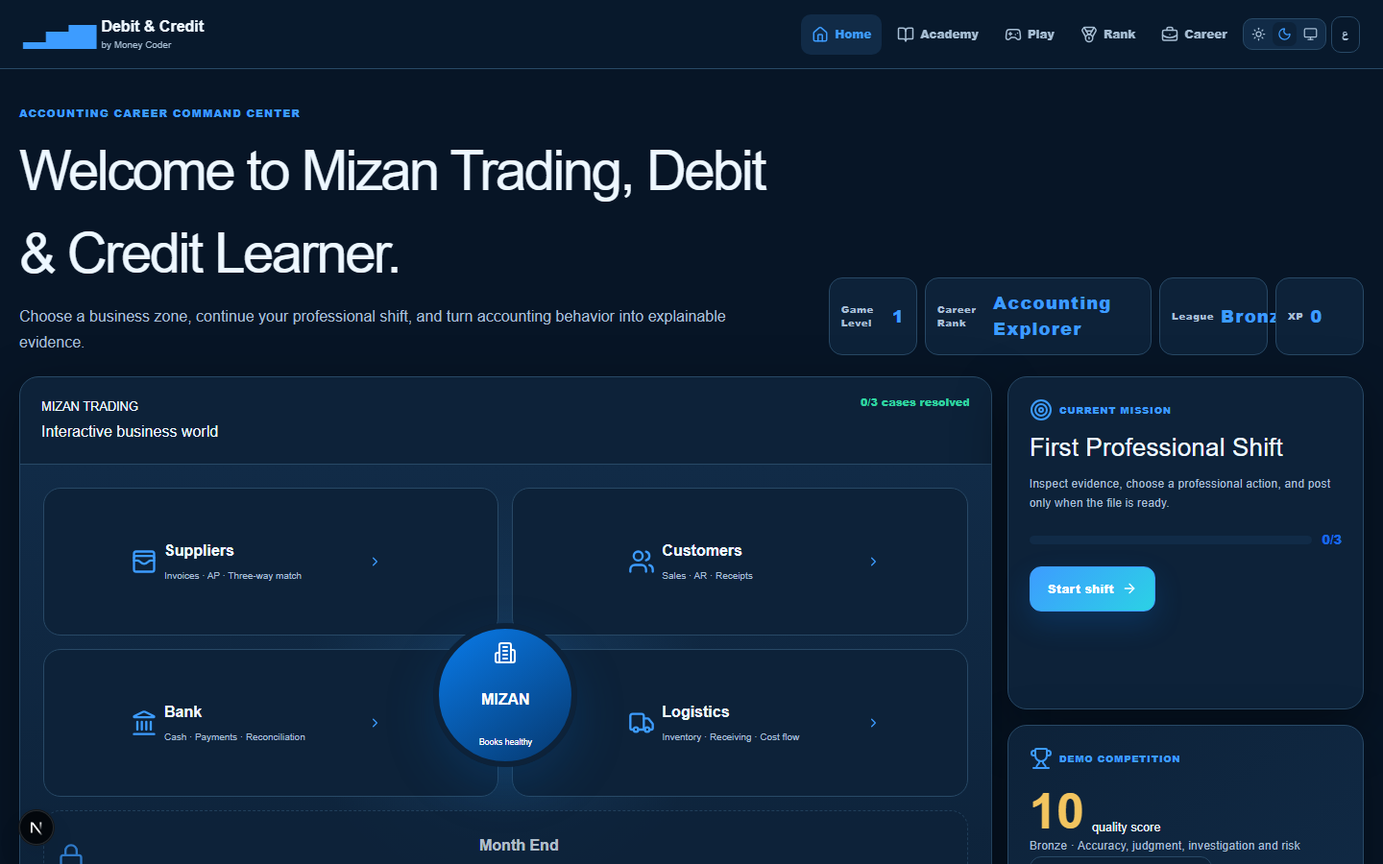
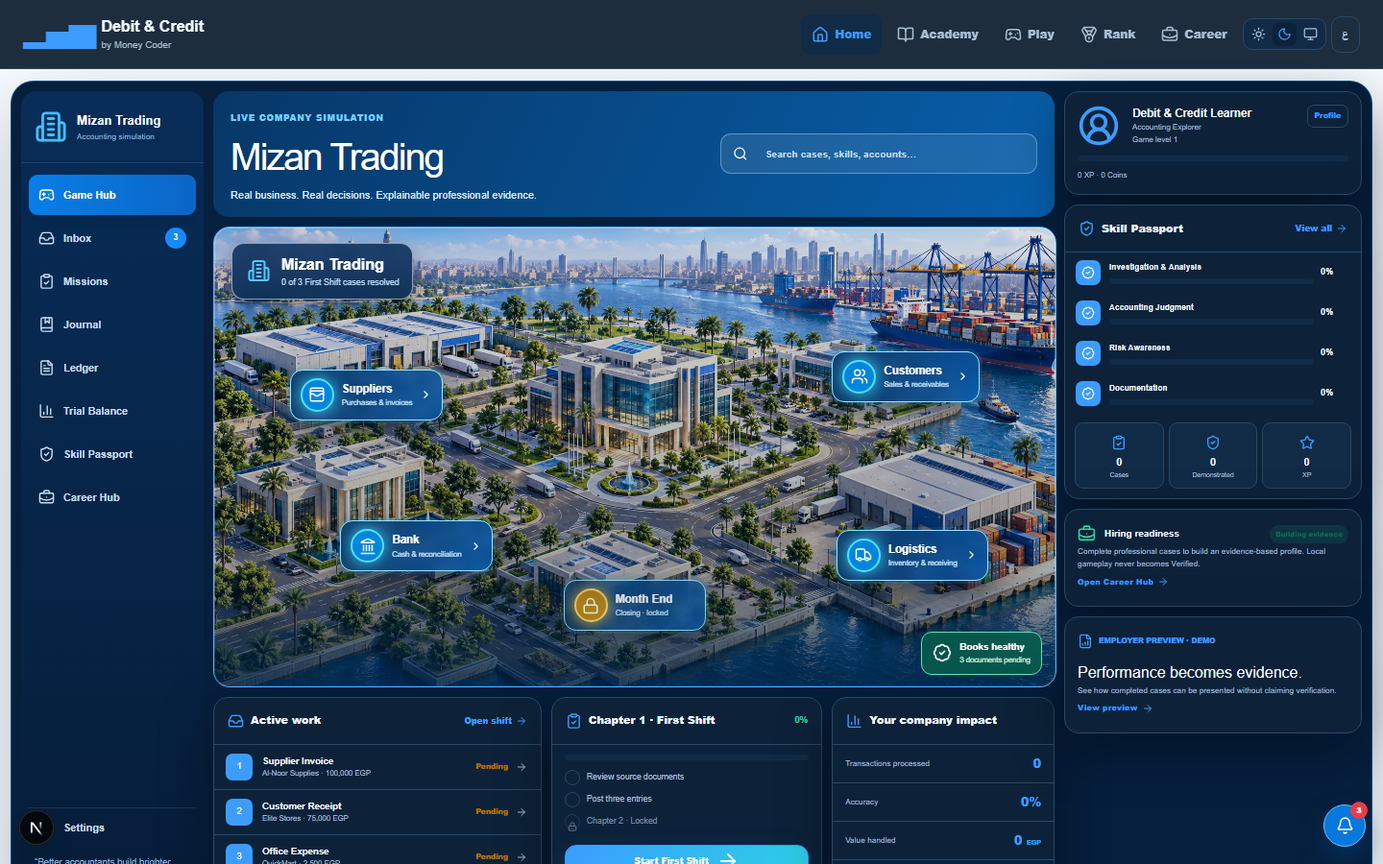
feat: rebuild game hub as company world

diff --git a/app/platform.css b/app/platform.css
@@ -9,6 +9,28 @@
 @media(max-width:980px){.platform-nav nav{display:none;position:absolute;top:66px;inset-inline:12px;grid-template-columns:1fr 1fr;padding:10px;border:1px solid var(--border);border-radius:15px;background:var(--surface);box-shadow:var(--shadow)}.platform-nav nav.open{display:grid}.platform-menu{display:block}.marketing-hero,.world-showcase,.hub-layout,.career-hub-grid{grid-template-columns:1fr}.journey>div{grid-template-columns:repeat(3,1fr)}.hub-bottom{grid-template-columns:1fr 1fr}.hub-bottom article:first-child{grid-column:1/-1}.academy-loop{grid-template-columns:1fr 1fr}.academy-loop>svg{display:none}.leaderboard-table{overflow-x:auto}.leaderboard-table>header,.leaderboard-table>article{min-width:760px}.career-hub-hero,.academy-platform-hero{align-items:flex-start;flex-direction:column}}
 @media(max-width:600px){.platform-nav{min-height:62px;padding:8px 14px}.platform-brand b{font-size:.85rem}.marketing-hero,.platform-section,.platform-split,.employer-strip,.hub-welcome,.hub-layout,.hub-bottom,.academy-platform-hero,.academy-loop,.phase-roadmap,.academy-foundation,.leaderboard-hero,.score-formula,.leaderboard-tabs,.leaderboard-table,.season-card,.career-hub-hero,.career-hub-grid,.career-pipeline{width:min(100% - 22px,1440px)}.marketing-hero{grid-template-columns:1fr;min-height:auto;padding:52px 0}.marketing-hero h1{font-size:3.2rem}.mizan-preview{transform:none}.platform-section{padding:55px 0}.difference>div,.platform-split,.academy-foundation{grid-template-columns:1fr}.journey>div{grid-template-columns:1fr 1fr}.world-showcase{padding:28px 20px}.world-orbit{min-height:280px}.employer-strip{grid-template-columns:auto 1fr}.employer-strip>a{grid-column:1/-1}.hub-welcome{align-items:flex-start;flex-direction:column;padding-top:25px}.hub-player{width:100%;overflow-x:auto}.hub-player span{min-width:105px}.zone-map{display:flex;overflow-x:auto;min-height:330px;padding-top:175px}.mizan-tower{top:90px}.business-zone{flex:0 0 235px;min-height:130px;padding:14px!important}.business-zone.month-end{flex-basis:210px}.hub-bottom{grid-template-columns:1fr}.hub-bottom article:first-child{grid-column:auto}.academy-loop{grid-template-columns:1fr}.academy-platform-hero{padding-top:35px}.academy-platform-hero h1,.leaderboard-hero h1,.career-hub-hero h1{font-size:2.6rem}.phase-roadmap article{grid-template-columns:auto 1fr}.phase-roadmap article>a,.phase-roadmap article>svg:last-child{grid-column:2}.leaderboard-hero{align-items:flex-start;flex-direction:column;padding-top:35px}.leaderboard-hero>aside{width:100%}.score-formula{align-items:flex-start}.score-formula p{overflow-wrap:anywhere}.season-card{grid-template-columns:auto 1fr}.season-card>a{grid-column:1/-1}.career-hub-hero>aside{width:100%;min-width:0}.skill-groups{grid-template-columns:1fr}.career-pipeline{align-items:flex-start;flex-wrap:wrap}.career-pipeline>a{width:100%}}
 @media(prefers-reduced-motion:reduce){.platform-page *{scroll-behavior:auto!important;animation:none!important;transition:none!important}}
+
+/* Mizan Trading command game */
+.command-game{min-height:100vh;overflow-x:hidden;background:radial-gradient(circle at 48% 8%,#1689ff18,transparent 36%),var(--page-bg)}
+.command-shell{display:grid;grid-template-columns:190px minmax(620px,1fr) 310px;gap:10px;width:min(1600px,calc(100% - 22px));margin:12px auto 55px;padding:10px;border:1px solid #2188e866;border-radius:24px;background:#061f3d;box-shadow:0 30px 80px #00162c42}
+.command-rail,.command-dossier,.command-main{min-width:0}.command-rail{display:flex;flex-direction:column;overflow:hidden;border-radius:16px;color:#d9edff;background:linear-gradient(180deg,#082d58,#061d39)}
+.command-rail-company{display:flex;align-items:center;gap:10px;padding:20px 14px;border-bottom:1px solid #ffffff1c}.command-rail-company>svg{width:34px;height:34px;color:#42bfff}.command-rail-company span{display:grid}.command-rail-company b{color:#fff;font-size:.82rem}.command-rail-company small{color:#94b9dc;font-size:.52rem}
+.command-rail nav{display:grid;gap:3px;padding:12px 8px}.command-rail nav a,.command-rail-settings{display:flex;align-items:center;gap:9px;min-height:42px;padding:0 10px;border-radius:9px;color:#c7ddf2;font-size:.68rem;font-weight:750;text-decoration:none;transition:.18s ease}.command-rail nav a:hover,.command-rail nav a.active{color:#fff;background:linear-gradient(90deg,#087ee8,#0b66c5);box-shadow:0 7px 18px #001b3766}.command-rail nav svg,.command-rail-settings svg{width:17px}.command-rail nav span{flex:1}.command-rail nav em{display:grid;place-items:center;width:22px;height:22px;border-radius:50%;color:#fff;background:#168aff;font-style:normal;font-size:.58rem}.command-rail-settings{margin:auto 8px 0;border-top:1px solid #ffffff18;border-radius:0}.command-rail blockquote{margin:8px 14px 18px;color:#8fb4d7;font-size:.6rem;line-height:1.5}
+.command-main{display:grid;align-content:start;gap:10px}.command-heading{display:flex;align-items:center;justify-content:space-between;gap:20px;min-height:91px;padding:14px 18px;border-radius:16px;color:#fff;background:linear-gradient(115deg,#073767,#075fab)}.command-heading span{color:#79cdff;font-size:.55rem;font-weight:900;letter-spacing:.1em}.command-heading h1{margin:2px 0;font-size:clamp(1.75rem,2.7vw,3rem);letter-spacing:-.045em}.command-heading p{margin:0;color:#d3e8fb;font-size:.68rem}.command-heading label{display:flex;align-items:center;gap:7px;width:min(330px,40%);height:42px;padding:0 12px;border:1px solid #b5dbff6b;border-radius:11px;background:#ffffff18}.command-heading label svg{width:17px}.command-heading input{width:100%;border:0;outline:0;color:#fff;background:transparent;font:inherit;font-size:.64rem}.command-heading input::placeholder{color:#c6ddf1}
+.company-world{position:relative;overflow:hidden;aspect-ratio:16/8.75;min-height:480px;border:1px solid #4db3ff;border-radius:17px;background-image:linear-gradient(180deg,#03294b24,#021b3373),url('/platform/mizan-trading-world.png');background-position:center;background-size:cover;box-shadow:inset 0 0 0 1px #ffffff4d}.company-world:after{position:absolute;inset:auto 0 0;height:25%;content:'';pointer-events:none;background:linear-gradient(transparent,#022446b8)}
+.company-world-title{position:absolute;z-index:2;top:16px;inset-inline-start:18px;display:flex;align-items:center;gap:9px;padding:10px 13px;border:1px solid #ffffff85;border-radius:13px;color:#fff;background:#062c58d9;box-shadow:0 8px 20px #001b375c;backdrop-filter:blur(9px)}.company-world-title>svg{width:29px;color:#52caff}.company-world-title span{display:grid}.company-world-title b{font-size:1rem}.company-world-title small{color:#b9daf6;font-size:.55rem}
+.world-zone{position:absolute;z-index:3;display:flex;align-items:center;gap:8px;min-width:148px;padding:8px 10px;border:1px solid #95e7ff;border-radius:13px;color:#fff;background:linear-gradient(110deg,#073364e8,#0759a9de);box-shadow:0 0 0 3px #12b9ff22,0 9px 24px #00162c9c;text-align:start;text-decoration:none;backdrop-filter:blur(5px);transition:.18s ease}.world-zone:not(:disabled):hover{transform:translateY(-3px) scale(1.03);background:linear-gradient(110deg,#086bccf2,#079bd4ec)}.world-zone>i{display:grid;place-items:center;width:35px;height:35px;border:2px solid #4be1ff;border-radius:50%;background:#0286db;box-shadow:0 0 17px #39d8ff}.world-zone>i svg{width:18px}.world-zone>span{display:grid;flex:1}.world-zone b{font-size:.72rem}.world-zone small{color:#c7e8ff;font-size:.48rem}.world-zone>svg{width:13px}.world-zone-suppliers{top:31%;left:9%}.world-zone-customers{top:27%;right:9%}.world-zone-bank{bottom:25%;left:15%}.world-zone-logistics{right:8%;bottom:23%}.world-zone-month-end{left:50%;bottom:12%;transform:translateX(-50%);opacity:.85}.world-zone-month-end:disabled{cursor:not-allowed}.world-zone-month-end>i{border-color:#ffd577;background:#bd870d;box-shadow:0 0 17px #ffc743}.world-health{position:absolute;z-index:3;inset-inline-end:14px;bottom:12px;display:flex;align-items:center;gap:8px;padding:8px 11px;border:1px solid #65e1b1;border-radius:11px;color:#fff;background:#075d4bdc;backdrop-filter:blur(6px)}.world-health>svg{width:20px}.world-health span{display:grid}.world-health b{font-size:.62rem}.world-health small{color:#c4f7df;font-size:.48rem}
+.operations-deck{display:grid;grid-template-columns:1.15fr .95fr .78fr;gap:10px}.operations-deck>article,.command-dossier>section{overflow:hidden;border:1px solid var(--border);border-radius:15px;background:var(--surface);box-shadow:var(--shadow)}.operations-deck article>header,.passport-panel>header{display:flex;align-items:center;justify-content:space-between;gap:8px;padding:12px 14px;border-bottom:1px solid var(--border)}.operations-deck header span,.passport-panel header span{display:flex;align-items:center;gap:7px;font-size:.7rem;font-weight:900}.operations-deck header svg,.passport-panel header svg{width:17px;color:var(--brand-primary)}.operations-deck header a,.passport-panel header a{display:flex;align-items:center;gap:4px;color:var(--brand-primary);font-size:.55rem;font-weight:800;text-decoration:none}.operations-deck header a svg,.passport-panel header a svg{width:12px}
+.case-line{display:grid;grid-template-columns:30px minmax(0,1fr) auto 14px;align-items:center;gap:8px;padding:9px 12px;border-bottom:1px solid var(--border);color:var(--text-primary);text-decoration:none}.case-line>i{display:grid;place-items:center;width:28px;height:28px;border-radius:7px;color:#fff;background:var(--brand-primary);font-style:normal;font-size:.6rem}.case-line.complete>i{background:var(--success)}.case-line>i svg{width:15px}.case-line>span{display:grid;min-width:0}.case-line b{overflow:hidden;font-size:.6rem;text-overflow:ellipsis;white-space:nowrap}.case-line small{overflow:hidden;color:var(--text-secondary);font-size:.49rem;text-overflow:ellipsis;white-space:nowrap}.case-line em{color:#b17700;font-size:.48rem;font-style:normal;font-weight:800}.case-line.complete em{color:var(--success)}.case-line>svg{width:12px;color:var(--text-secondary)}
+.chapter-progress{padding-bottom:11px}.chapter-progress>header b{color:var(--success);font-size:.6rem}.chapter-meter{overflow:hidden;height:6px;margin:10px 13px;border-radius:5px;background:var(--surface-muted)}.chapter-meter i{display:block;height:100%;background:linear-gradient(90deg,var(--brand-primary),var(--success))}.chapter-progress ul{display:grid;gap:7px;margin:10px 13px;padding:0;list-style:none}.chapter-progress li{display:flex;align-items:center;gap:7px;color:var(--text-secondary);font-size:.54rem}.chapter-progress li>i{display:grid;place-items:center;width:16px;height:16px;border:1px solid var(--border);border-radius:50%}.chapter-progress li.done{color:var(--success)}.chapter-progress li.done>i{border-color:var(--success);background:#12ac7e18}.chapter-progress li.locked{opacity:.65}.chapter-progress li svg{width:10px}.chapter-progress>a{width:calc(100% - 26px);min-height:34px;margin:6px 13px 0;font-size:.57rem}
+.company-impact dl{display:grid;gap:0;margin:0}.company-impact dl>div{display:flex;align-items:center;justify-content:space-between;gap:8px;padding:10px 13px;border-bottom:1px solid var(--border)}.company-impact dt{color:var(--text-secondary);font-size:.52rem}.company-impact dd{margin:0;color:var(--brand-primary);font-size:.8rem;font-weight:950}.company-impact dd small{font-size:.42rem}
+.command-dossier{display:grid;align-content:start;gap:10px}.player-dossier{display:grid;grid-template-columns:48px minmax(0,1fr) auto;gap:9px;padding:13px}.player-dossier>svg{width:44px;height:44px;color:var(--brand-primary)}.player-dossier>div{display:grid}.player-dossier>div b{font-size:.73rem}.player-dossier>div small,.player-dossier>div span,.player-dossier>small{color:var(--text-secondary);font-size:.5rem}.player-dossier>a{align-self:start;padding:5px 7px;border:1px solid var(--border);border-radius:7px;color:var(--brand-primary);font-size:.48rem;font-weight:800;text-decoration:none}.player-dossier>i{grid-column:1/-1;overflow:hidden;height:6px;border-radius:5px;background:var(--surface-muted)}.player-dossier>i b{display:block;height:100%;background:linear-gradient(90deg,var(--brand-primary),#19c5ef)}.player-dossier>small{grid-column:1/-1}
+.passport-panel{padding-bottom:10px}.skill-line{display:grid;grid-template-columns:28px minmax(0,1fr) 31px;align-items:center;gap:7px;padding:8px 11px}.skill-line>i{display:grid;place-items:center;width:26px;height:26px;border-radius:7px;color:#fff;background:var(--brand-primary)}.skill-line>i svg{width:14px}.skill-line>span{display:grid;gap:5px}.skill-line b{font-size:.52rem}.skill-line em{overflow:hidden;height:6px;border-radius:5px;background:var(--surface-muted)}.skill-line em small{display:block;height:100%;background:linear-gradient(90deg,var(--brand-primary),#25bdea)}.skill-line>strong{font-size:.58rem}.passport-stats{display:grid;grid-template-columns:repeat(3,1fr);gap:5px;margin:9px 10px 0}.passport-stats span{display:grid;place-items:center;padding:8px 3px;border:1px solid var(--border);border-radius:9px;background:var(--surface-muted)}.passport-stats svg{width:16px;color:var(--brand-primary)}.passport-stats b{font-size:.7rem}.passport-stats small{color:var(--text-secondary);font-size:.43rem}
+.readiness-panel,.employer-preview-panel{padding:13px}.readiness-panel header{display:grid;grid-template-columns:22px 1fr auto;align-items:center;gap:6px}.readiness-panel header svg{width:19px;color:var(--success)}.readiness-panel header b{font-size:.62rem}.readiness-panel header span{padding:4px 6px;border-radius:10px;color:#067052;background:#14b88020;font-size:.45rem;font-weight:900}.readiness-panel p,.employer-preview-panel p{color:var(--text-secondary);font-size:.52rem;line-height:1.55}.readiness-panel a,.employer-preview-panel a{display:flex;align-items:center;gap:4px;color:var(--brand-primary);font-size:.53rem;font-weight:850;text-decoration:none}.readiness-panel a svg,.employer-preview-panel a svg{width:12px}.employer-preview-panel{background:linear-gradient(150deg,var(--surface),var(--surface-muted))}.employer-preview-panel>span{display:flex;align-items:center;gap:6px;color:var(--brand-primary);font-size:.48rem;font-weight:900}.employer-preview-panel>span svg{width:16px}.employer-preview-panel h2{margin:9px 0 0;font-size:1rem}.command-alert{position:fixed;z-index:20;right:18px;bottom:18px;display:grid;place-items:center;width:44px;height:44px;border:1px solid #5fc7ff;border-radius:50%;color:#fff;background:#0878dc;box-shadow:0 12px 25px #003d7390}.command-alert svg{width:19px}.command-alert span{position:absolute;top:-4px;right:-3px;display:grid;place-items:center;width:18px;height:18px;border-radius:50%;background:#eb3b49;font-size:.5rem;font-weight:900}
+[dir=rtl] .world-zone-month-end{transform:translateX(50%)}[dir=rtl] .world-zone>svg{transform:scaleX(-1)}
+@media(max-width:1220px){.command-shell{grid-template-columns:170px minmax(0,1fr)}.command-dossier{grid-column:1/-1;grid-template-columns:1fr 1.35fr 1fr 1fr}.company-world{min-height:430px}.operations-deck{grid-template-columns:1fr 1fr}.company-impact{grid-column:1/-1}.company-impact dl{grid-template-columns:repeat(4,1fr)}}
+@media(max-width:850px){.command-shell{grid-template-columns:1fr}.command-rail{display:block}.command-rail-company,.command-rail-settings,.command-rail blockquote{display:none}.command-rail nav{display:flex;overflow-x:auto;padding:7px}.command-rail nav a{flex:0 0 auto;min-height:38px}.command-main{grid-row:2}.command-dossier{grid-template-columns:1fr 1fr}.command-heading{align-items:flex-start;flex-direction:column}.command-heading label{width:100%}.company-world{min-height:430px}.operations-deck{grid-template-columns:1fr}.company-impact{grid-column:auto}.company-impact dl{grid-template-columns:1fr 1fr}}
+@media(max-width:560px){.command-shell{width:100%;max-width:100vw;margin:0;padding:6px;border-width:0;border-radius:0;overflow:hidden}.command-game .platform-nav{position:relative;max-width:100vw}.command-main,.command-heading,.company-world,.operations-deck,.command-dossier{width:100%;max-width:100%;min-width:0}.command-heading{min-height:auto;padding:13px}.command-heading>div{min-width:0;max-width:100%}.command-heading h1,.command-heading p{overflow-wrap:anywhere}.command-heading p{font-size:.6rem}.company-world{aspect-ratio:4/5;min-height:560px;background-position:51% center}.company-world-title{top:10px;inset-inline-start:10px;max-width:calc(100% - 20px)}.world-zone{min-width:125px;max-width:47%;padding:6px}.world-zone>i{flex:0 0 auto;width:29px;height:29px}.world-zone>span{min-width:0}.world-zone b,.world-zone small{overflow:hidden;text-overflow:ellipsis;white-space:nowrap}.world-zone b{font-size:.61rem}.world-zone small{font-size:.42rem}.world-zone-suppliers{top:25%;left:4%}.world-zone-customers{top:33%;right:3%}.world-zone-bank{bottom:31%;left:4%}.world-zone-logistics{right:3%;bottom:19%}.world-zone-month-end{bottom:7%}.world-health{top:82px;bottom:auto;inset-inline-end:8px}.operations-deck{grid-template-columns:minmax(0,1fr)}.command-dossier{grid-template-columns:minmax(0,1fr)}.company-impact dl{grid-template-columns:1fr 1fr}.command-alert{bottom:72px}.case-line{grid-template-columns:28px minmax(0,1fr) 14px}.case-line em{display:none}}
 .onboarding-page{min-height:100vh}.onboarding-card{width:min(860px,calc(100% - 32px));margin:48px auto;padding:38px;border:1px solid var(--border);border-radius:28px;background:var(--surface);box-shadow:var(--shadow)}.onboarding-card>header{text-align:center}.onboarding-card>header span{color:var(--brand-primary);font-size:.7rem;font-weight:900}.onboarding-card h1{margin:10px 0;font-size:clamp(2rem,5vw,3.5rem)}.onboarding-card p{max-width:650px;margin:auto;color:var(--text-secondary);line-height:1.7}.onboarding-card fieldset{margin:28px 0;padding:0;border:0}.onboarding-card legend{margin-bottom:12px;font-size:1rem;font-weight:900}.onboarding-card fieldset>div{display:grid;grid-template-columns:repeat(4,1fr);gap:10px}.onboarding-card button{display:grid;place-items:center;gap:10px;min-height:120px;padding:14px;border:1px solid var(--border);border-radius:16px;color:var(--text-primary);background:var(--surface-muted);cursor:pointer}.onboarding-card button svg{color:var(--brand-primary)}.onboarding-card button.selected{color:#fff;border-color:var(--brand-primary);background:linear-gradient(145deg,var(--brand-primary),#0751ad)}.onboarding-card>.platform-primary{width:100%;margin-top:10px}.onboarding-card>.platform-primary[aria-disabled=true]{pointer-events:none;opacity:.45}
 @media(max-width:600px){.onboarding-card{margin:22px auto;padding:24px 16px}.onboarding-card fieldset>div{grid-template-columns:1fr 1fr}.onboarding-card button{min-height:105px}}
 .challenge-catalog{display:grid;grid-template-columns:repeat(3,1fr);gap:16px;width:min(100% - 40px,1440px);margin:0 auto 70px}.challenge-catalog article{padding:28px;border:1px solid var(--border);border-radius:22px;background:var(--surface);box-shadow:var(--shadow)}.challenge-catalog article>svg{width:38px;height:38px;color:var(--brand-primary)}.challenge-catalog small{display:block;margin-top:18px;color:var(--text-secondary);font-weight:900}.challenge-catalog p{min-height:72px;color:var(--text-secondary);line-height:1.6}.challenge-catalog a,.challenge-catalog article>span{display:inline-flex;align-items:center;gap:7px;color:var(--brand-primary);font-weight:900;text-decoration:none}.challenge-catalog article.locked{opacity:.7}.challenge-catalog article.locked>svg{color:var(--warning)}

diff --git a/components/platform/game-hub.tsx b/components/platform/game-hub.tsx
@@ -1,3 +1,45 @@
 'use client';
-import Link from'next/link';import{ArrowLeft,ArrowRight,BookOpen,Building2,CheckCircle2,ChevronRight,FileText,Landmark,Lock,Medal,Target,Trophy,Truck,Users,WalletCards,Zap}from'lucide-react';import{useGame}from'@/lib/campaign/store';import{firstDayCompany,firstDayProgress}from'@/lib/campaign/first-day';import{projectShiftPerformance}from'@/lib/cases/performance';import{firstShiftSkillEvidence,calculatePassport,calculateRoleReadiness}from'@/lib/career/evidence';import{competitionScore,leagueForScore,challengeCatalog,roleSkillGroups,recommendMission,professionalRank}from'@/lib/platform';import{usePlayer}from'@/components/game/use-player';import type{Locale}from'@/types';import{PlatformNav}from'./platform-nav';
-export function GameHub({locale}:{locale:Locale}){const ar=locale==='ar',say=(en:string,a:string)=>ar?a:en,Arrow=ar?ArrowLeft:ArrowRight,{state}=useGame(),player=usePlayer(),progress=firstDayProgress(state),done=progress.completed.length,company=firstDayCompany(state),performance=projectShiftPerformance(state),evidence=firstShiftSkillEvidence(state,'local-player'),passport=calculatePassport(evidence),careerRank=professionalRank(passport),readiness=calculateRoleReadiness('junior-accountant',passport),groups=roleSkillGroups('junior-accountant',passport),recommended=recommendMission('junior-accountant',passport),score=competitionScore({...performance,firstAttemptRate:done/3*100}),league=leagueForScore(score),zones=[['suppliers',WalletCards,say('Suppliers','الموردون'),say('Invoices · AP · Three-way match','الفواتير · الموردون · المطابقة'),`/${locale}/game/first-shift`],['customers',Users,say('Customers','العملاء'),say('Sales · AR · Receipts','المبيعات · العملاء · التحصيل'),`/${locale}/game/first-shift`],['bank',Landmark,say('Bank','البنك'),say('Cash · Payments · Reconciliation','النقدية · المدفوعات · التسوية'),`/${locale}/money-flow`],['logistics',Truck,say('Logistics','اللوجستيات'),say('Inventory · Receiving · Cost flow','المخزون · الاستلام · التكلفة'),`/${locale}/account-guide`]] as const;return <main className="platform-page hub-page"><PlatformNav locale={locale}/><section className="hub-welcome"><div><span>{say('ACCOUNTING CAREER COMMAND CENTER','مركز قيادة مسارك المحاسبي')}</span><h1>{say(`Welcome to Mizan Trading, ${player.displayName}.`,`أهلًا بك في Mizan Trading، ${player.displayName}.`)}</h1><p>{say('Choose a business zone, continue your professional shift, and turn accounting behavior into explainable evidence.','اختر قسم العمل، أكمل ورديتك المهنية، وحوّل سلوكك المحاسبي إلى أدلة قابلة للتفسير.')}</p></div><div className="hub-player"><span><b>{say('Game Level','مستوى اللعبة')}</b><strong>{player.level}</strong></span><span><b>{say('Career Rank','الرتبة المهنية')}</b><strong>{careerRank}</strong></span><span><b>{say('League','الدوري')}</b><strong>{league}</strong></span><span><b>XP</b><strong>{player.xp}</strong></span></div></section><section className="hub-layout"><div className="hub-world"><header><div><small>MIZAN TRADING</small><h2>{say('Interactive business world','عالم أعمال تفاعلي')}</h2></div><span>{done}/3 {say('cases resolved','حالات مكتملة')}</span></header><div className="zone-map"><div className="mizan-tower"><Building2/><b>MIZAN</b><small>{company.ledgerErrors===0?say('Books healthy','الدفاتر سليمة'):say('Review required','تحتاج مراجعة')}</small></div>{zones.map(([id,Icon,title,desc,href])=><Link className={`business-zone ${id}`} href={href} key={id}><Icon/><b>{title}</b><small>{desc}</small><ChevronRight/></Link>)}<button className="business-zone month-end" disabled><Lock/><b>{say('Month End','نهاية الشهر')}</b><small>{say('Closing Week · locked','أسبوع الإقفال · مقفول')}</small></button></div><footer><CheckCircle2/><span><b>{say('Company impact','أثر الشركة')}</b><small>{done} {say('transactions processed','معاملات معالجة')} · {company.pendingDocuments} {say('open issues','حالات مفتوحة')} · {performance.accuracy}% {say('accuracy','دقة')}</small></span></footer></div><aside className="hub-side"><section className="hub-card current-mission"><span><Target/>{say('CURRENT MISSION','المهمة الحالية')}</span><h2>{done===3?say('First Shift complete','اكتملت أول وردية'):say('First Professional Shift','أول وردية مهنية')}</h2><p>{say('Inspect evidence, choose a professional action, and post only when the file is ready.','افحص الأدلة، اختر قرارًا مهنيًا، ولا ترحّل قبل اكتمال الملف.')}</p><div><i><b style={{width:`${done/3*100}%`}}/></i><small>{done}/3</small></div><Link className="platform-primary" href={`/${locale}/game/first-shift`}>{done?say('Continue shift','أكمل الوردية'):say('Start shift','ابدأ الوردية')}<Arrow/></Link></section><section className="hub-card competition-card"><span><Trophy/>{say('DEMO COMPETITION','منافسة تجريبية')}</span><div className="competition-number"><strong>{score}</strong><small>{say('quality score','نقاط الجودة')}</small></div><p>{league} · {say('Accuracy, judgment, investigation and risk','الدقة والحكم والتحقيق والمخاطر')}</p><Link href={`/${locale}/leaderboard`}>{say('View leaderboard','اعرض الترتيب')}<Arrow/></Link></section></aside></section><section className="hub-bottom"><article><header><Medal/><span><small>{say('CAREER','المسار')}</small><h2>{say('Junior Accountant','محاسب مبتدئ')}</h2></span></header><div className="career-quick"><span><strong>{readiness.score===null?'—':`${readiness.score}%`}</strong>{say('Role readiness','جاهزية الدور')}</span><span><strong>{groups.demonstrated.length}</strong>{say('Demonstrated','مثبتة')}</span><span><strong>{groups.practiced.length}</strong>{say('Practiced','تدريب')}</span></div><p>{say('Next career mission:','مهمة المسار التالية:')} <b>{ar?recommended.ar:recommended.en}</b>{recommended.locked?<Lock/>:null}</p><Link href={`/${locale}/career`}>{say('Open Career Hub','افتح مركز المسار')}<Arrow/></Link></article><article><header><Zap/><span><small>{say('CHALLENGES','التحديات')}</small><h2>{say('Play with purpose','العب بهدف')}</h2></span></header>{challengeCatalog.map(c=><div className="challenge-row" key={c.id}>{c.locked?<Lock/>:<FileText/>}<span><b>{ar?c.ar:c.en}</b><small>{c.type.toUpperCase()}</small></span>{c.route?<Link href={`/${locale}${c.route}`}><Arrow/></Link>:<em>{say('Locked','مقفول')}</em>}</div>)}</article><article><header><BookOpen/><span><small>{say('ACADEMY','الأكاديمية')}</small><h2>{say('Learn → Practice → Work','اتعلّم ← تدرّب ← اشتغل')}</h2></span></header><p>{say('Start with foundations, then prove each concept inside Mizan Trading.','ابدأ بالأساسيات ثم طبّق كل مفهوم داخل Mizan Trading.')}</p><Link href={`/${locale}/academy`}>{say('View learning path','اعرض مسار التعلم')}<Arrow/></Link></article></section></main>}
+
+import Link from 'next/link';
+import {ArrowLeft,ArrowRight,BadgeCheck,BarChart3,Bell,BookMarked,BriefcaseBusiness,Building2,Check,ChevronRight,CircleUserRound,ClipboardCheck,FileBarChart,FileText,Gamepad2,Inbox,Landmark,Lock,Search,Settings,ShieldCheck,Star,Truck,Users,WalletCards} from 'lucide-react';
+import {useGame} from '@/lib/campaign/store';
+import {firstDayCompany,firstDayDocuments,firstDayProgress} from '@/lib/campaign/first-day';
+import {projectShiftPerformance} from '@/lib/cases/performance';
+import {calculatePassport,calculateRoleReadiness,firstShiftSkillEvidence} from '@/lib/career/evidence';
+import {professionalRank} from '@/lib/platform';
+import {usePlayer} from '@/components/game/use-player';
+import type {Locale} from '@/types';
+import {PlatformNav} from './platform-nav';
+
+type IconType=typeof Gamepad2;
+
+export function GameHub({locale}:{locale:Locale}){
+ const ar=locale==='ar',say=(en:string,a:string)=>ar?a:en,Arrow=ar?ArrowLeft:ArrowRight;
+ const {state}=useGame(),player=usePlayer(),progress=firstDayProgress(state),company=firstDayCompany(state),performance=projectShiftPerformance(state),evidence=firstShiftSkillEvidence(state,'local-player'),passport=calculatePassport(evidence),readiness=calculateRoleReadiness('junior-accountant',passport),careerRank=professionalRank(passport),done=progress.completed.length;
+ const handledValue=firstDayDocuments.filter(document=>progress.completed.includes(document.id)).reduce((total,document)=>total+document.amount,0);
+ const rail:[string,IconType,string][]=[
+  [`/${locale}/game`,Gamepad2,say('Game Hub','مركز اللعب')],[`/${locale}/game/first-shift`,Inbox,say('Inbox','الوارد')],[`/${locale}/challenges`,ClipboardCheck,say('Missions','المهام')],[`/${locale}/game/first-shift`,BookMarked,say('Journal','اليومية')],[`/${locale}/account-guide`,FileText,say('Ledger','الأستاذ')],[`/${locale}/money-flow`,BarChart3,say('Trial Balance','ميزان المراجعة')],[`/${locale}/career-profile/skills`,ShieldCheck,say('Skill Passport','جواز المهارات')],[`/${locale}/career`,BriefcaseBusiness,say('Career Hub','المسار المهني')]
+ ];
+ const zones:{id:string;icon:IconType;title:string;detail:string;href?:string}[]=[
+  {id:'suppliers',icon:WalletCards,title:say('Suppliers','الموردون'),detail:say('Purchases & invoices','المشتريات والفواتير'),href:`/${locale}/game/first-shift`},
+  {id:'customers',icon:Users,title:say('Customers','العملاء'),detail:say('Sales & receivables','المبيعات والعملاء'),href:`/${locale}/game/first-shift`},
+  {id:'bank',icon:Landmark,title:say('Bank','البنك'),detail:say('Cash & reconciliation','النقدية والتسويات'),href:`/${locale}/money-flow`},
+  {id:'logistics',icon:Truck,title:say('Logistics','اللوجستيات'),detail:say('Inventory & receiving','المخزون والاستلام'),href:`/${locale}/account-guide`},
+  {id:'month-end',icon:ClipboardCheck,title:say('Month End','نهاية الشهر'),detail:say('Closing · locked','الإقفال · مقفول')}
+ ];
+ const skills=[[say('Investigation & Analysis','التحقيق والتحليل'),performance.investigation],[say('Accounting Judgment','الحكم المحاسبي'),performance.accountingJudgment],[say('Risk Awareness','الوعي بالمخاطر'),performance.riskAwareness],[say('Documentation','التوثيق'),performance.documentation]] as const;
+ return <main className="platform-page command-game"><PlatformNav locale={locale}/><section className="command-shell">
+  <aside className="command-rail" aria-label={say('Game navigation','تنقل اللعبة')}><div className="command-rail-company"><Building2/><span><b>Mizan Trading</b><small>{say('Accounting simulation','محاكاة محاسبية')}</small></span></div><nav>{rail.map(([href,Icon,label],index)=><Link className={index===0?'active':''} href={href} key={label}><Icon/><span>{label}</span>{index===1&&company.pendingDocuments>0?<em>{company.pendingDocuments}</em>:null}</Link>)}</nav><Link className="command-rail-settings" href={`/${locale}/profile`}><Settings/>{say('Settings','الإعدادات')}</Link><blockquote>“{say('Better accountants build brighter companies.','محاسبون أفضل يبنون شركات أقوى.')}”</blockquote></aside>
+  <div className="command-main"><header className="command-heading"><div><span>{say('LIVE COMPANY SIMULATION','محاكاة شركة حية')}</span><h1>Mizan Trading</h1><p>{say('Real business. Real decisions. Explainable professional evidence.','عمل حقيقي. قرارات حقيقية. أدلة مهنية قابلة للتفسير.')}</p></div><label><Search/><input aria-label={say('Search the game','ابحث داخل اللعبة')} placeholder={say('Search cases, skills, accounts…','ابحث عن حالة أو مهارة أو حساب…')}/></label></header>
+   <section className="company-world" aria-label={say('Interactive Mizan Trading map','خريطة Mizan Trading التفاعلية')}><div className="company-world-title"><Building2/><span><b>Mizan Trading</b><small>{say(`${done} of 3 First Shift cases resolved`,`${done} من 3 حالات في أول وردية مكتملة`)}</small></span></div>{zones.map(({id,icon:Icon,title,detail,href})=>href?<Link className={`world-zone world-zone-${id}`} href={href} key={id}><i><Icon/></i><span><b>{title}</b><small>{detail}</small></span><ChevronRight/></Link>:<button className={`world-zone world-zone-${id}`} disabled key={id}><i><Lock/></i><span><b>{title}</b><small>{detail}</small></span></button>)}<div className="world-health"><BadgeCheck/><span><b>{company.ledgerErrors===0?say('Books healthy','الدفاتر سليمة'):say('Review required','تحتاج مراجعة')}</b><small>{company.pendingDocuments} {say('documents pending','مستندات معلقة')}</small></span></div></section>
+   <section className="operations-deck"><article className="active-cases"><header><span><Inbox/>{say('Active work','العمل الحالي')}</span><Link href={`/${locale}/game/first-shift`}>{say('Open shift','افتح الوردية')}<Arrow/></Link></header>{firstDayDocuments.map((document,index)=>{const completed=progress.completed.includes(document.id);return <Link href={`/${locale}/game/first-shift`} className={`case-line ${completed?'complete':''}`} key={document.id}><i>{completed?<Check/>:index+1}</i><span><b>{document.title[locale]}</b><small>{document.party[locale]} · {document.amount.toLocaleString(locale)} EGP</small></span><em>{completed?say('Processed','تمت المعالجة'):say('Pending','معلّق')}</em><Arrow/></Link>})}</article>
+    <article className="chapter-progress"><header><span><ClipboardCheck/>{say('Chapter 1 · First Shift','الفصل 1 · أول وردية')}</span><b>{Math.round(done/3*100)}%</b></header><div className="chapter-meter"><i style={{width:`${done/3*100}%`}}/></div><ul><li className={done>0?'done':''}><i>{done>0?<Check/>:null}</i>{say('Review source documents','مراجعة المستندات')}</li><li className={done===3?'done':''}><i>{done===3?<Check/>:null}</i>{say('Post three entries','ترحيل ثلاثة قيود')}</li><li className="locked"><i><Lock/></i>{say('Chapter 2 · Locked','الفصل 2 · مقفول')}</li></ul><Link className="platform-primary" href={`/${locale}/game/first-shift`}>{done?say('Continue First Shift','أكمل أول وردية'):say('Start First Shift','ابدأ أول وردية')}<Arrow/></Link></article>
+    <article className="company-impact"><header><span><BarChart3/>{say('Your company impact','أثرك داخل الشركة')}</span></header><dl><div><dt>{say('Transactions processed','معاملات معالجة')}</dt><dd>{done}</dd></div><div><dt>{say('Accuracy','الدقة')}</dt><dd>{performance.accuracy}%</dd></div><div><dt>{say('Value handled','قيمة تمت معالجتها')}</dt><dd>{handledValue.toLocaleString(locale)} <small>EGP</small></dd></div><div><dt>{say('Ledger issues','مشكلات الدفتر')}</dt><dd>{company.ledgerErrors}</dd></div></dl></article></section>
+  </div>
+  <aside className="command-dossier"><section className="player-dossier"><CircleUserRound/><div><b>{player.displayName}</b><small>{careerRank}</small><span>{say('Game level','مستوى اللعبة')} {player.level}</span></div><Link href={`/${locale}/profile`}>{say('Profile','الملف')}</Link><i><b style={{width:`${Math.min(100,player.levelProgress)}%`}}/></i><small>{player.xp.toLocaleString(locale)} XP · {player.coins.toLocaleString(locale)} {say('Coins','عملة')}</small></section>
+   <section className="passport-panel"><header><span><ShieldCheck/>{say('Skill Passport','جواز المهارات')}</span><Link href={`/${locale}/career-profile/skills`}>{say('View all','عرض الكل')}<Arrow/></Link></header>{skills.map(([label,value])=><div className="skill-line" key={label}><i><BadgeCheck/></i><span><b>{label}</b><em><small style={{width:`${value}%`}}/></em></span><strong>{value}%</strong></div>)}<div className="passport-stats"><span><ClipboardCheck/><b>{done}</b><small>{say('Cases','حالات')}</small></span><span><ShieldCheck/><b>{passport.filter(item=>item.status==='demonstrated').length}</b><small>{say('Demonstrated','مثبتة')}</small></span><span><Star/><b>{player.xp}</b><small>XP</small></span></div></section>
+   <section className="readiness-panel"><header><BriefcaseBusiness/><b>{say('Hiring readiness','الجاهزية المهنية')}</b><span>{readiness.score===null?say('Building evidence','نبني الأدلة'):`${readiness.score}%`}</span></header><p>{say('Complete professional cases to build an evidence-based profile. Local gameplay never becomes Verified.','أكمل حالات مهنية لبناء ملف قائم على الأدلة. اللعب المحلي لا يصبح «موثقًا».')}</p><Link href={`/${locale}/career`}>{say('Open Career Hub','افتح المسار المهني')}<Arrow/></Link></section>
+   <section className="employer-preview-panel"><span><FileBarChart/>{say('EMPLOYER PREVIEW · DEMO','معاينة الشركات · تجريبية')}</span><h2>{say('Performance becomes evidence.','الأداء يتحول إلى دليل.')}</h2><p>{say('See how completed cases can be presented without claiming verification.','شاهد كيف تُعرض الحالات المكتملة دون ادعاء التوثيق.')}</p><Link href={`/${locale}/employers`}>{say('View preview','اعرض المعاينة')}<Arrow/></Link></section>
+  </aside>
+ </section><button className="command-alert" aria-label={say('Notifications','الإشعارات')}><Bell/><span>{company.pendingDocuments}</span></button></main>;
+}

diff --git a/tests/platform-ui.test.tsx b/tests/platform-ui.test.tsx
@@ -1,5 +1,5 @@
 import{afterEach,beforeEach,describe,expect,it,vi}from'vitest';import{cleanup,fireEvent,render,screen,waitFor}from'@testing-library/react';
-import{MarketingLanding}from'@/components/platform/marketing-landing';import{PlatformOnboarding}from'@/components/platform/onboarding';import{MobileGameNav}from'@/components/game/mobile-game-nav';import{ThemeProvider,ThemeToggle}from'@/components/platform/theme-provider';import{AcademyPlatform}from'@/components/platform/academy-platform';import{ChallengesPlatform}from'@/components/platform/challenges-platform';import{THEME_KEY}from'@/lib/platform';import{PLATFORM_KEY}from'@/lib/platform/repository';
+import{MarketingLanding}from'@/components/platform/marketing-landing';import{PlatformOnboarding}from'@/components/platform/onboarding';import{MobileGameNav}from'@/components/game/mobile-game-nav';import{ThemeProvider,ThemeToggle}from'@/components/platform/theme-provider';import{AcademyPlatform}from'@/components/platform/academy-platform';import{ChallengesPlatform}from'@/components/platform/challenges-platform';import{GameHub}from'@/components/platform/game-hub';import{THEME_KEY}from'@/lib/platform';import{PLATFORM_KEY}from'@/lib/platform/repository';
 vi.mock('next/navigation',()=>({usePathname:()=>'/en'}));
 beforeEach(()=>{localStorage.clear();document.documentElement.dataset.theme=''});afterEach(cleanup);
 describe('platform UI',()=>{
@@ -10,4 +10,5 @@ describe('platform UI',()=>{
  it('restores a saved theme preference',async()=>{localStorage.setItem(THEME_KEY,'dark');render(<ThemeProvider><ThemeToggle/></ThemeProvider>);await waitFor(()=>expect(screen.getByTitle('dark')).toHaveAttribute('aria-pressed','true'))});
  it('stores onboarding choices without granting evidence',()=>{render(<PlatformOnboarding locale="en"/>);fireEvent.click(screen.getByRole('button',{name:/Accounting student/}));fireEvent.click(screen.getByRole('button',{name:/Prepare for work/}));const enter=screen.getByRole('link',{name:/Enter Game Hub/});enter.addEventListener('click',event=>event.preventDefault());fireEvent.click(enter);expect(JSON.parse(localStorage.getItem(PLATFORM_KEY)??'{}')).toMatchObject({experience:'student',goal:'career',onboardingComplete:true});expect(localStorage.getItem(PLATFORM_KEY)).not.toMatch(/verified|evidence/i)});
  it('provides five mobile game destinations in both directions',()=>{const view=render(<MobileGameNav locale="en"/>);expect(screen.getByRole('navigation',{name:'Mobile navigation'}).querySelectorAll('a')).toHaveLength(5);expect(screen.getByRole('link',{name:'Rank'})).toHaveAttribute('href','/en/leaderboard');view.rerender(<MobileGameNav locale="ar"/>);expect(screen.getByRole('navigation',{name:'تنقل الهاتف'})).toBeInTheDocument()});
+ it('renders the Game Hub as an interactive company world with real routes',()=>{render(<GameHub locale="en"/>);expect(screen.getByRole('region',{name:'Interactive Mizan Trading map'})).toBeInTheDocument();expect(screen.getByRole('link',{name:/Suppliers/})).toHaveAttribute('href','/en/game/first-shift');expect(screen.getByRole('button',{name:/Month End/})).toBeDisabled();expect(screen.getByText('EMPLOYER PREVIEW · DEMO')).toBeInTheDocument()});
 });

diff --git a/docs/GAMIFIED-ACADEMY-PLATFORM.md b/docs/GAMIFIED-ACADEMY-PLATFORM.md
@@ -6,12 +6,20 @@ Debit & Credit connects accounting learning, professional simulation, quality-ba
 
 The integrity rules remain strict: XP controls game progression only; league rank is not employability; Mizan Trading is simulation rather than employment; local evidence never becomes `Verified`.
 
+## Interactive company-world correction
+
+The Game Hub now follows the intended management-game composition. Its center is a new original Mizan Trading port campus with clickable operational zones for Suppliers, Customers, Bank, and Logistics. Month End remains visibly locked. The visual is an environment layer only; labels, status, links, locks, progress, and accessibility remain live React controls.
+
+A persistent game rail opens the real inbox, First Shift, journal, ledger reference, Money Flow, Skill Passport, and Career Hub. The surrounding operations deck reads the three real First Shift documents and their saved completion state. Company impact uses processed cases, projected accuracy, handled document value, and ledger issues from the existing game state. The player dossier and Skill Passport use existing local projections and keep Game Level separate from professional rank.
+
+Desktop uses the full command-center layout. Tablet collapses the dossier beneath the world, and mobile turns the rail into a horizontal game menu, keeps the map touch targets inside the viewport, and stacks the operations and evidence panels. Chapter 2 was not implemented or unlocked.
+
 ## Implemented platform layer
 
 - Premium bilingual public landing page with product journey, Mizan Trading preview, career path, competition preview, and employer demo entry.
 - Local onboarding for experience and goal, with foundations kept mandatory.
 - Light, Dark, and System themes using semantic CSS tokens and local persistence. An early boot script prevents a saved theme from flashing incorrectly.
-- Game Hub with state-derived level, professional rank, league, XP, company impact, First Shift mission, career summary, and challenges.
+- Game Hub with a large interactive Mizan Trading company world, state-derived player dossier, company impact, First Shift work queue, and professional evidence panels.
 - Functional Mizan Trading zones: Suppliers and Customers open First Shift, Bank opens Money Flow, Logistics opens the account reference, and Month End remains visibly locked.
 - Academy overview for Phases 0–6 and the Learn → Practice → Simulate → Compete model.
 - Daily, weekly, and locked boss challenge samples that reuse existing mechanics.

diff --git a/GAMIFIED-ACADEMY-IMPLEMENTATION-REPORT.md b/GAMIFIED-ACADEMY-IMPLEMENTATION-REPORT.md
@@ -1,5 +1,13 @@
 # Gamified Academy Platform — Implementation Report
 
+## Game Hub visual correction — 2026-09-13
+
+The earlier abstract card map was replaced with the requested full company-world play surface. A new original Mizan Trading port-campus image is stored at `public/platform/mizan-trading-world.png`; it contains no baked UI or text. React overlays provide the actual Suppliers, Customers, Bank, Logistics, and locked Month End interactions.
+
+The screen now combines a game navigation rail, interactive company map, real First Shift work queue, Chapter 1 progress, state-derived company impact, player dossier, Skill Passport performance, hiring-readiness explanation, and a clearly labeled employer demo. Existing accounting logic, Phase B events, persistence, bilingual behavior, and Chapter 2 lock are unchanged.
+
+Validation after the correction: focused platform UI 8/8, full Vitest 236/236 across 28 files, ESLint clean, TypeScript clean, and production build clean. Updated desktop Light/Dark and mobile captures are stored under `artifacts/gamified-academy-platform/`.
+
 ## Release
 
 - Branch: `codex/gamified-academy-platform`
@@ -10,7 +18,7 @@
 
 ## Delivered
 
-**Implemented:** bilingual public landing, onboarding, Light/Dark/System theme, responsive Game Hub, functional Mizan Trading zones, Academy Phase 0–6 map, challenge catalog, deterministic competition score, leagues, Career Hub, professional ranks, Skill Passport role grouping, missing-skill recommendation, evidence-driven CV sections/bullets, employer demo talent comparison, and candidate evidence drilldown.
+**Implemented:** bilingual public landing, onboarding, Light/Dark/System theme, interactive company-world Game Hub, functional Mizan Trading zones, Academy Phase 0–6 map, challenge catalog, deterministic competition score, leagues, Career Hub, professional ranks, Skill Passport role grouping, missing-skill recommendation, evidence-driven CV sections/bullets, employer demo talent comparison, and candidate evidence drilldown.
 
 **Demo:** leaderboard competitors, talent candidates, candidate comparison, and employer portal. All demo records are labeled. They are deterministic and do not represent real people/accounts.
 

diff --git a/DEBIT-CREDIT-GAME-PLATFORM-REPORT.md b/DEBIT-CREDIT-GAME-PLATFORM-REPORT.md
@@ -1,5 +1,13 @@
 # Debit & Credit
 
+## Mizan Trading Interactive Game Hub — 2026-09-13
+
+The Game Hub was corrected to match the requested way of playing: a full professional company simulation centered on a realistic Mizan Trading campus and port. Suppliers, Customers, Bank, and Logistics are live HTML routes over the world artwork; Month End and Chapter 2 remain locked. The previous abstract zone-card composition is no longer rendered.
+
+The surrounding command center now shows the real First Shift work queue, saved 0–3 document progress, company impact, player game level, professional rank, Skill Passport dimensions, readiness explanation, and employer demo entry. Every number comes from existing player, case, company, or evidence state. No fake employer verification or Chapter 2 content was added.
+
+New asset: `public/platform/mizan-trading-world.png`. Updated captures: `artifacts/gamified-academy-platform/game-hub-light.png`, `game-hub-dark.png`, and `game-hub-mobile.png`. Validation: 236 tests across 28 files, ESLint, TypeScript, and production build passed.
+
 ## Gamified Academy Platform — 2026-09-12
 
 The new review branch adds a bilingual public marketing layer, onboarding, Light/Dark/System themes, a responsive Mizan Trading Game Hub, Academy Phase 0–6 progression, challenges, deterministic local demo leagues, Career Hub role mapping, evidence-driven Auto CV behavior, and a clearly labeled employer comparison/evidence demo. It builds on Gameplay Phase B and leaves the accounting engine, Case Engine, 197-account Nature of Accounts source, saves, First Shift, and Chapter 2 lock intact.
